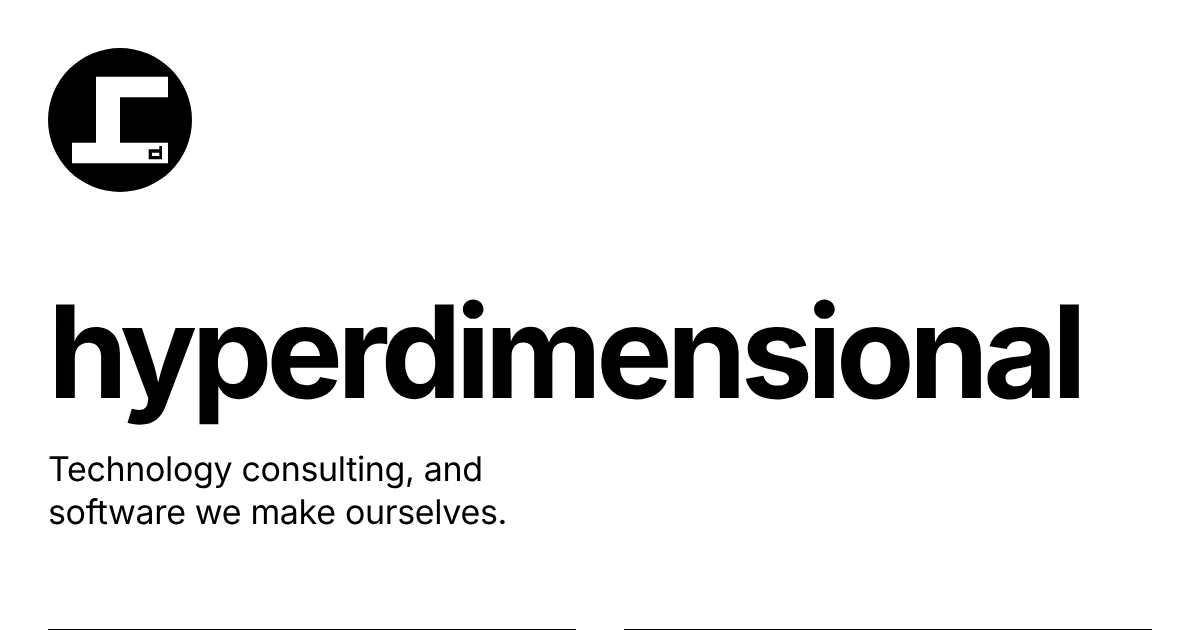
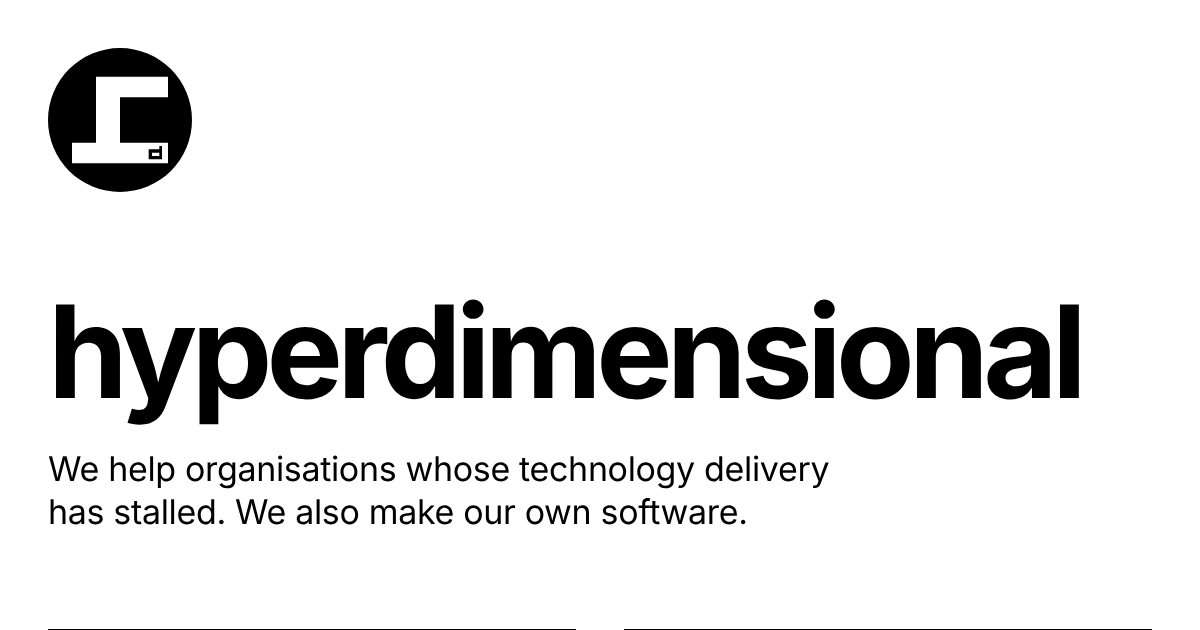
Lede: "We help organisations whose technology delivery has stalled. We also make our own software."
Two sentences, so the consulting and the software stay separate. The
meta description uses the same text. Share image regenerated.

Claude-Session: https://claude.ai/code/session_01EqXQJE7Jv298UTPypAxinV

Changed region(s): [[0.0308, 0.7238, 0.7092, 0.8444]]

diff --git a/src/_data/site.js b/src/_data/site.js
@@ -4,7 +4,7 @@ export default {
   name: 'hyperdimensional',
   url: (process.env.SITE_URL ?? 'https://www.hyperdimensional.net').replace(/\/$/, ''),
   lang: 'en',
-  description: 'Hyperdimensional Limited: technology consulting, and software we make ourselves.',
+  description: 'We help organisations whose technology delivery has stalled. We also make our own software.',
   // Legal entity, as registered at Companies House. Shown in every page footer
   // (UK Company, LLP and Business (Names and Trading Disclosures) Regulations 2015).
   company: {
